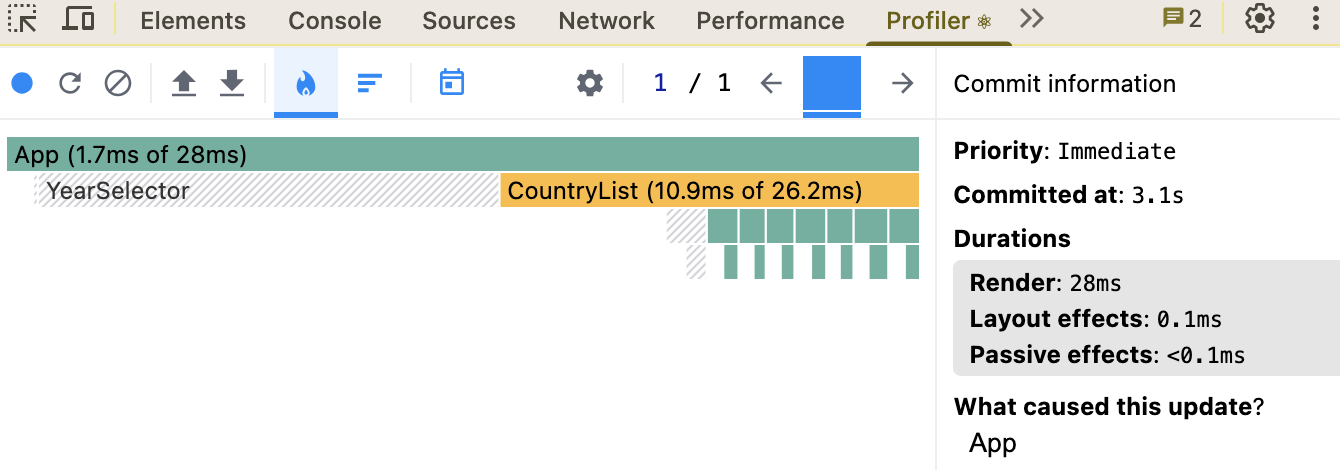
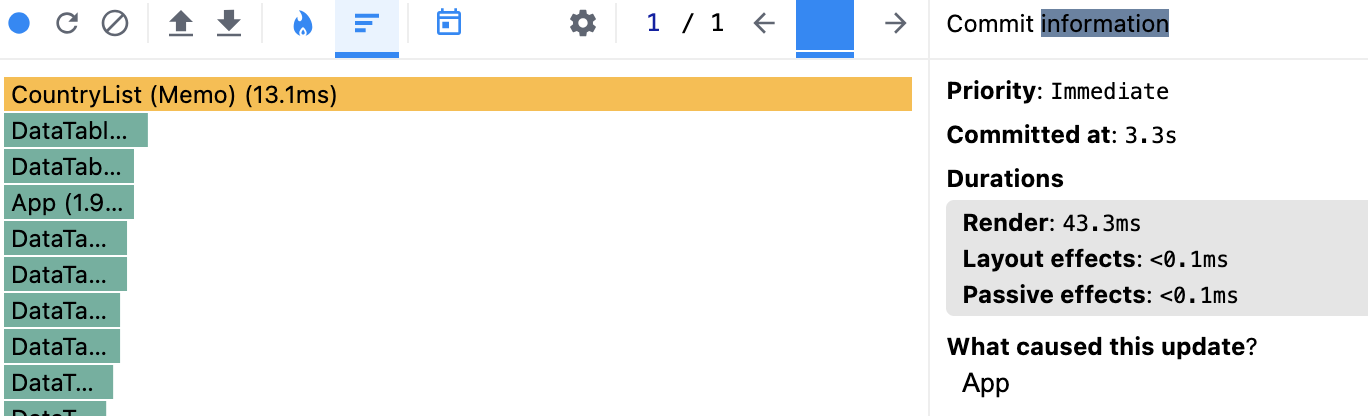
fix: fix report

diff --git a/react-performance/PERFORMANCE.md b/react-performance/PERFORMANCE.md
@@ -57,8 +57,8 @@
 
 ### Interaction A: Sort countries
 
-- **Commit duration**: 28.2 ms
-- **Render duration**: 28 ms
+- **Commit duration**: 43.5 ms
+- **Render duration**: 43.3 ms
 - **Screenshot**: ![screenshot](./public/optimized/screen9.png)
 - **Screenshot**: ![screenshot](./public/optimized/screen10.png)
 
@@ -104,8 +104,8 @@
 
 | Interaction      | Baseline (ms) | Optimized (ms) | Improvement |
 | ---------------- | ------------- | -------------- | ----------- |
-| Sort countries   | 584.2         | 28.2           | 95.2%       |
+| Sort countries   | 584.2         | 43.5           | 92.6%       |
 | Search countries | 271.3         | 3.0            | 98.9%       |
 | Change year      | 675.2         | 63.6           | 90.6%       |
 | Toggle column    | 627.1         | 9.1            | 98.5%       |
-| **Average**      | **539.5**    | **26.0**        | **95.2%%**  |
+| **Average**      | **539.5**    | **29.8**        | **94.5%%**  |
